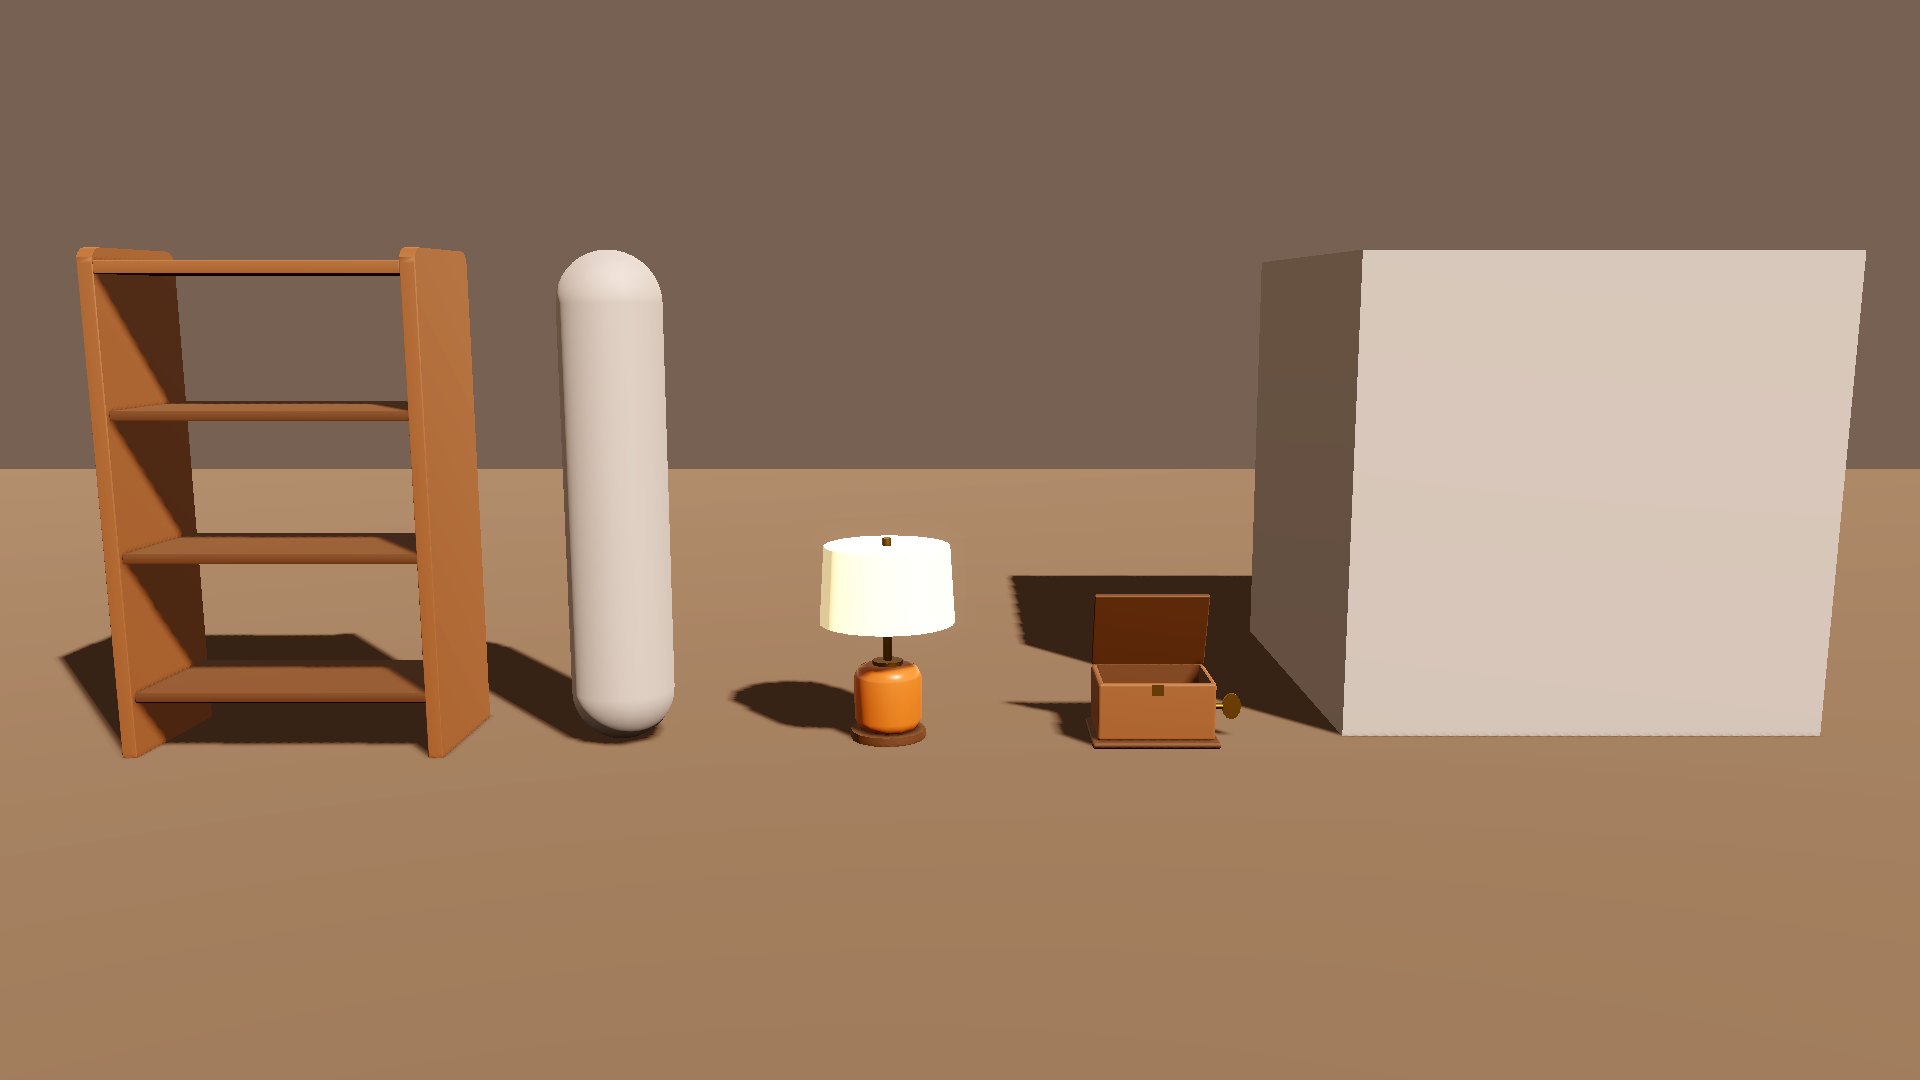
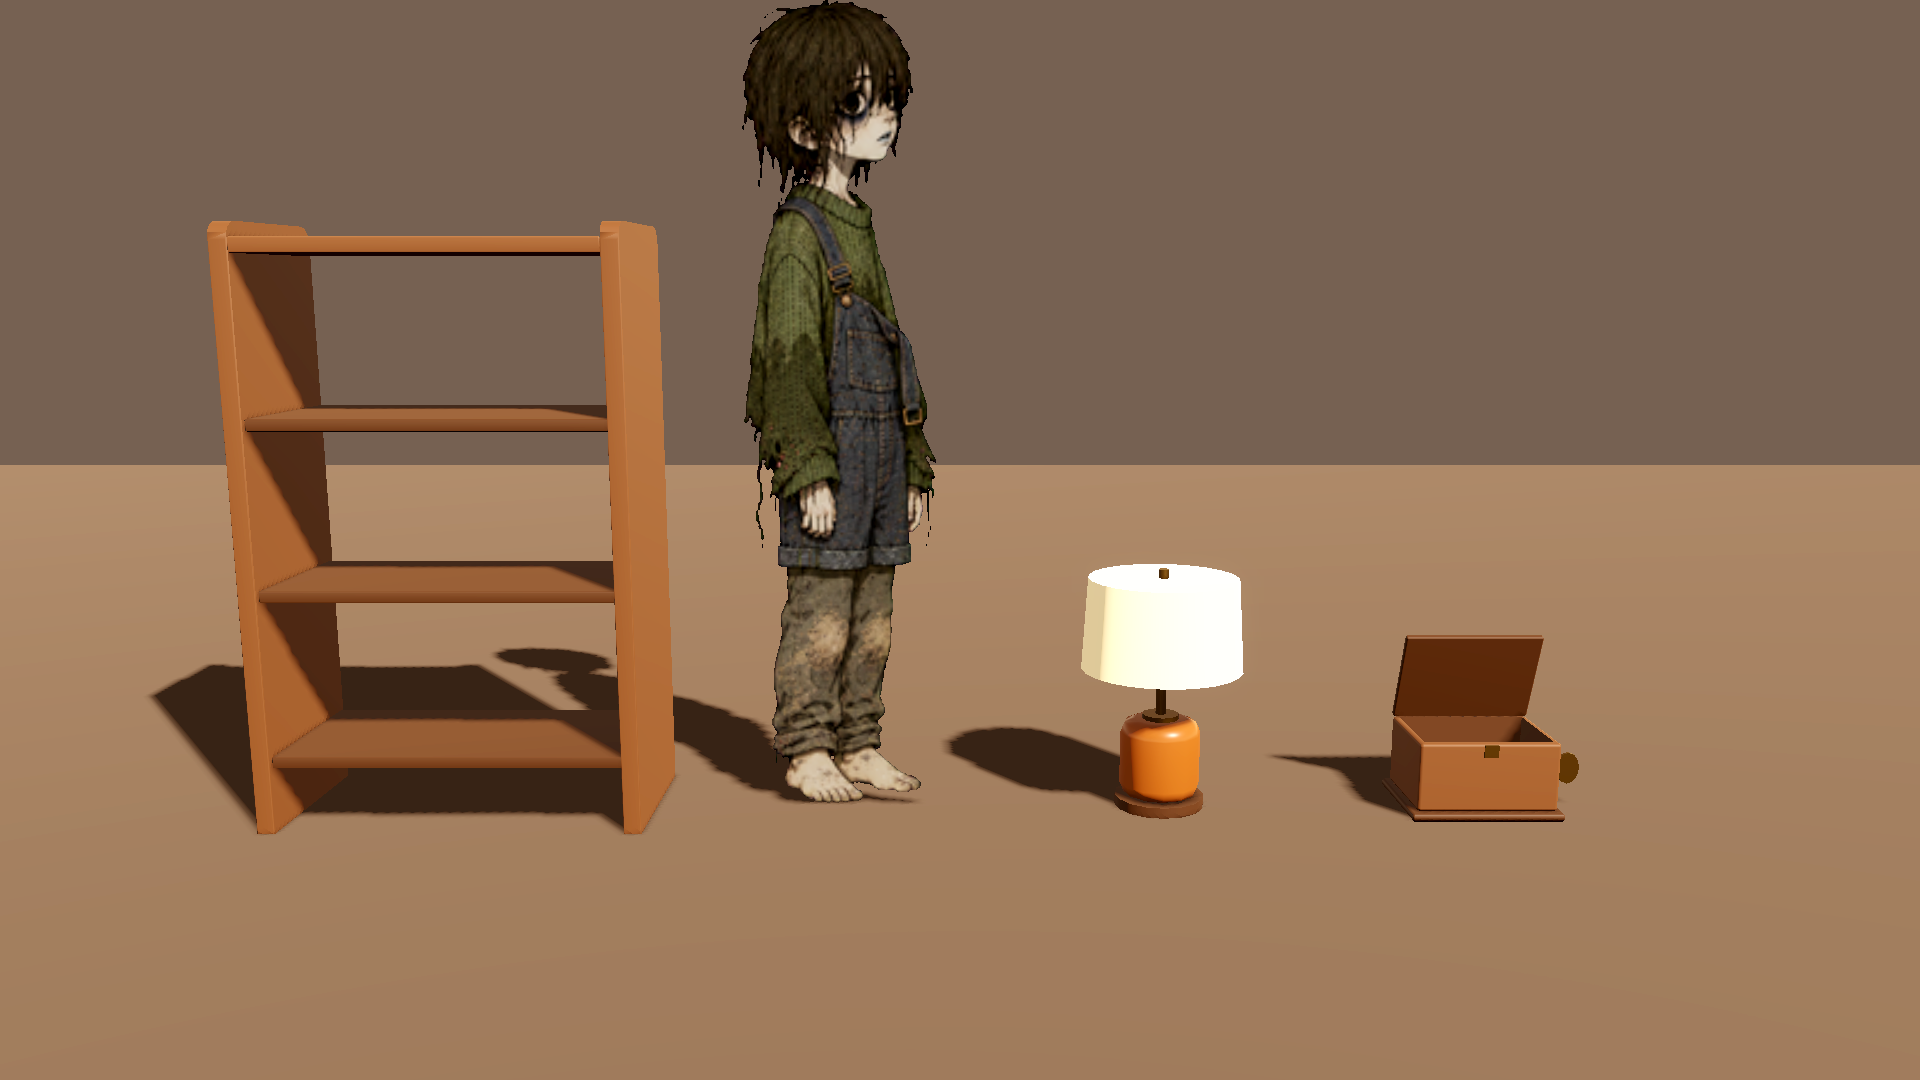
Replace the showcase's cube and capsule with the boy at game scale
Measuring his sprite corrected the brief: standing he is 341 px, 1.36 m.

diff --git a/FRICTIONAL.md b/FRICTIONAL.md
@@ -49,6 +49,7 @@ Entries are dated and in order, written as the work happened. Nothing is rewritt
 | My hand edit | Suggested moving one shelf, then a two-tone recolour for something more visible on video | "I think the easiest thing I can do is to add a third shelf" | **My edit, made with the mouse.** Revision A3-8 |
 | Seven boards | Laid out the choices: drop the back panel, undo the shelf, or keep seven and break the limit | First asked for the back slab as well, then: "keep how it is now without back its fine" | **My decision.** Open-backed, six boards |
 | Tidying the edit | Re-centred the shelves at my heights in even bays, renamed the copies, merged the `.001` material back, made the shelves dark wood | Accepted | **Claude's tidy-up of my edit**, logged as such, in one recorded call |
+| The 1 m cube and the capsule in the showcase | They were not required — the assignment asks for a floor, one light, a camera and the three assets; they came from my own plan. Proposed replacing both with the boy's own sprite at game scale | "I don't like them … remove them … or change them to something related to our game and more in detail" | **My call, Claude's proposal.** The boy now stands beside his props at 1.36 m; measuring him corrected the brief's 1.28 m |
 
 ## Entries
 
@@ -468,4 +469,22 @@ Entries are dated and in order, written as the work happened. Nothing is rewritt
 - **What I understand now / still do not understand:** Four things. Dragging the white circle of the Move gizmo moves an object freely on every axis; the arrow, or pressing Z after Shift+D, locks it to one. Shift+D copies whatever is selected, so with the parent selected it copied the whole parent. Blender names every copy `.001` silently — objects, meshes and even materials — which is exactly what the brief's naming rule exists to catch. And a fixed limit forces trade-offs: a third shelf cost me the back panel.
 
 - **Evidence and next step:** Evidence: `evidence/a3-hand-edit-before.png` and `evidence/a3-hand-edit-after.png` (same camera), my three screenshots above, `CHANGE-BRIEF.md` revision A3-8, `tools/blender/build_bookshelf.py`, `blender/bookshelf.blend`, `evidence/a3-check-assets.txt`. Next step: the orbit check in Godot.
+
+### 2026-10-15 — The boy in the showcase, and his real height
+
+- **Date and what I was working on:** 2026-10-15, before the orbit check: the showcase scene's two reference objects, a grey 1 m cube and a 1.00 m capsule.
+
+- **I tried / expected:** I did not like them in the scene and asked whether they were required. I expected they were.
+
+- **What happened:** They were not. The assignment asks for "a floor, one light, a camera, and your three assets side by side at game scale"; the cube and capsule came from my own plan. Claude proposed replacing both with the boy himself — my game's own sprite, `char_remembered.png`, as a flat figure at 250 px per metre that turns to face the camera — which answers the orbit check's "at game size, beside your character" more directly than either did.
+
+  Placing him exposed an error in my brief. The scale table says his sprite is 320 px, 1.28 m. Measured, his standing figure is **341 px — 1.36 m**; 320 was his walking height (303–317 px). A throwaway headless probe put his feet at y = 0.0000 and his head at 1.3640 m, and the scene still has exactly one light. In the render he stands beside his props and is visibly taller than the 1.00 m bookshelf — consistent with the game, where his 1.00 m collision capsule, not his drawing, is what the bookshelf stops.
+
+- **What I did:** Asked whether the references were required, and chose to replace them with something from my game.
+
+- **What Claude or another person contributed:** Checked the assignment text, proposed the boy sprite, measured the figure inside its canvas rather than trusting the brief, placed him with his feet on the floor, and recorded the correction to the brief.
+
+- **What I understand now / still do not understand:** The number I anchored the whole scale on was the walking height, not the standing one. It did not change the scale, because the anchor is the collision capsule, but I had been quoting 1.28 m for a pose he never stands in.
+
+- **Evidence and next step:** Evidence: `godot/scenes/AssetShowcase.tscn`; `evidence/a3-showcase.png`; the correction at the end of `CHANGE-BRIEF.md`. Next step: the orbit check, by me, in the editor.
 

diff --git a/README.md b/README.md
@@ -21,7 +21,7 @@ Three props from the game's remembered bedroom, built from Blender primitives th
 | **BedsideLamp** | The warm light that makes the remembered room look safe | 0.28 × 0.28 × 0.42 | 6 | 406 / 420 |
 | **Bookshelf** | His bookshelf — solid only in the memory, the half of the mechanic that forces the flip | 0.64 × 0.30 × 1.00 | 6 | 280 / 360 |
 
-**Open the scene:** `godot/scenes/AssetShowcase.tscn` — floor, one light, one camera, the three assets, a 1 m reference cube and the boy's 1.00 m collision capsule.
+**Open the scene:** `godot/scenes/AssetShowcase.tscn` — floor, one light, one camera and the three assets, with the boy himself standing beside them for scale: his own sprite, `char_remembered.png`, at the game's 250 px per metre, so he is 1.36 m tall. The sprite turns to face the camera and casts a shadow; it is a picture, not a fourth asset.
 
 **Run the check** (on macOS `godot` is `/Applications/Godot.app/Contents/MacOS/Godot`; `timeout` is Homebrew coreutils):
 

diff --git a/CHANGE-BRIEF.md b/CHANGE-BRIEF.md
@@ -403,3 +403,11 @@ bookshelf is now open-backed, which is what this brief first specified.
 Size unchanged at 0.64 × 0.30 × 1.00 m. `tools/blender/build_bookshelf.py` was updated to
 the edited design, and its headless rebuild matches the hand-edited `.blend` object for object.
 
+**Correction — 2026-10-15, the boy's height.** The scale table above gives the boy's sprite as
+320 px, 1.28 m. Measured on the files, his standing drawing (`char_remembered.png`) is **341 px
+of figure — 1.36 m** at 250 px/m — and his walking frames are 303–317 px, about 1.27 m; the 320
+was the walking height. The game draws him at scale 1, so 1.36 m is his true standing height.
+The scale itself is unchanged: 250 px/m, anchored on his 1.00 m collision capsule, which is why
+the 1.00 m bookshelf stops him even though his drawing stands taller than it. The showcase now
+shows him beside the assets at that size, replacing the 1 m cube and 1.00 m capsule.
+
